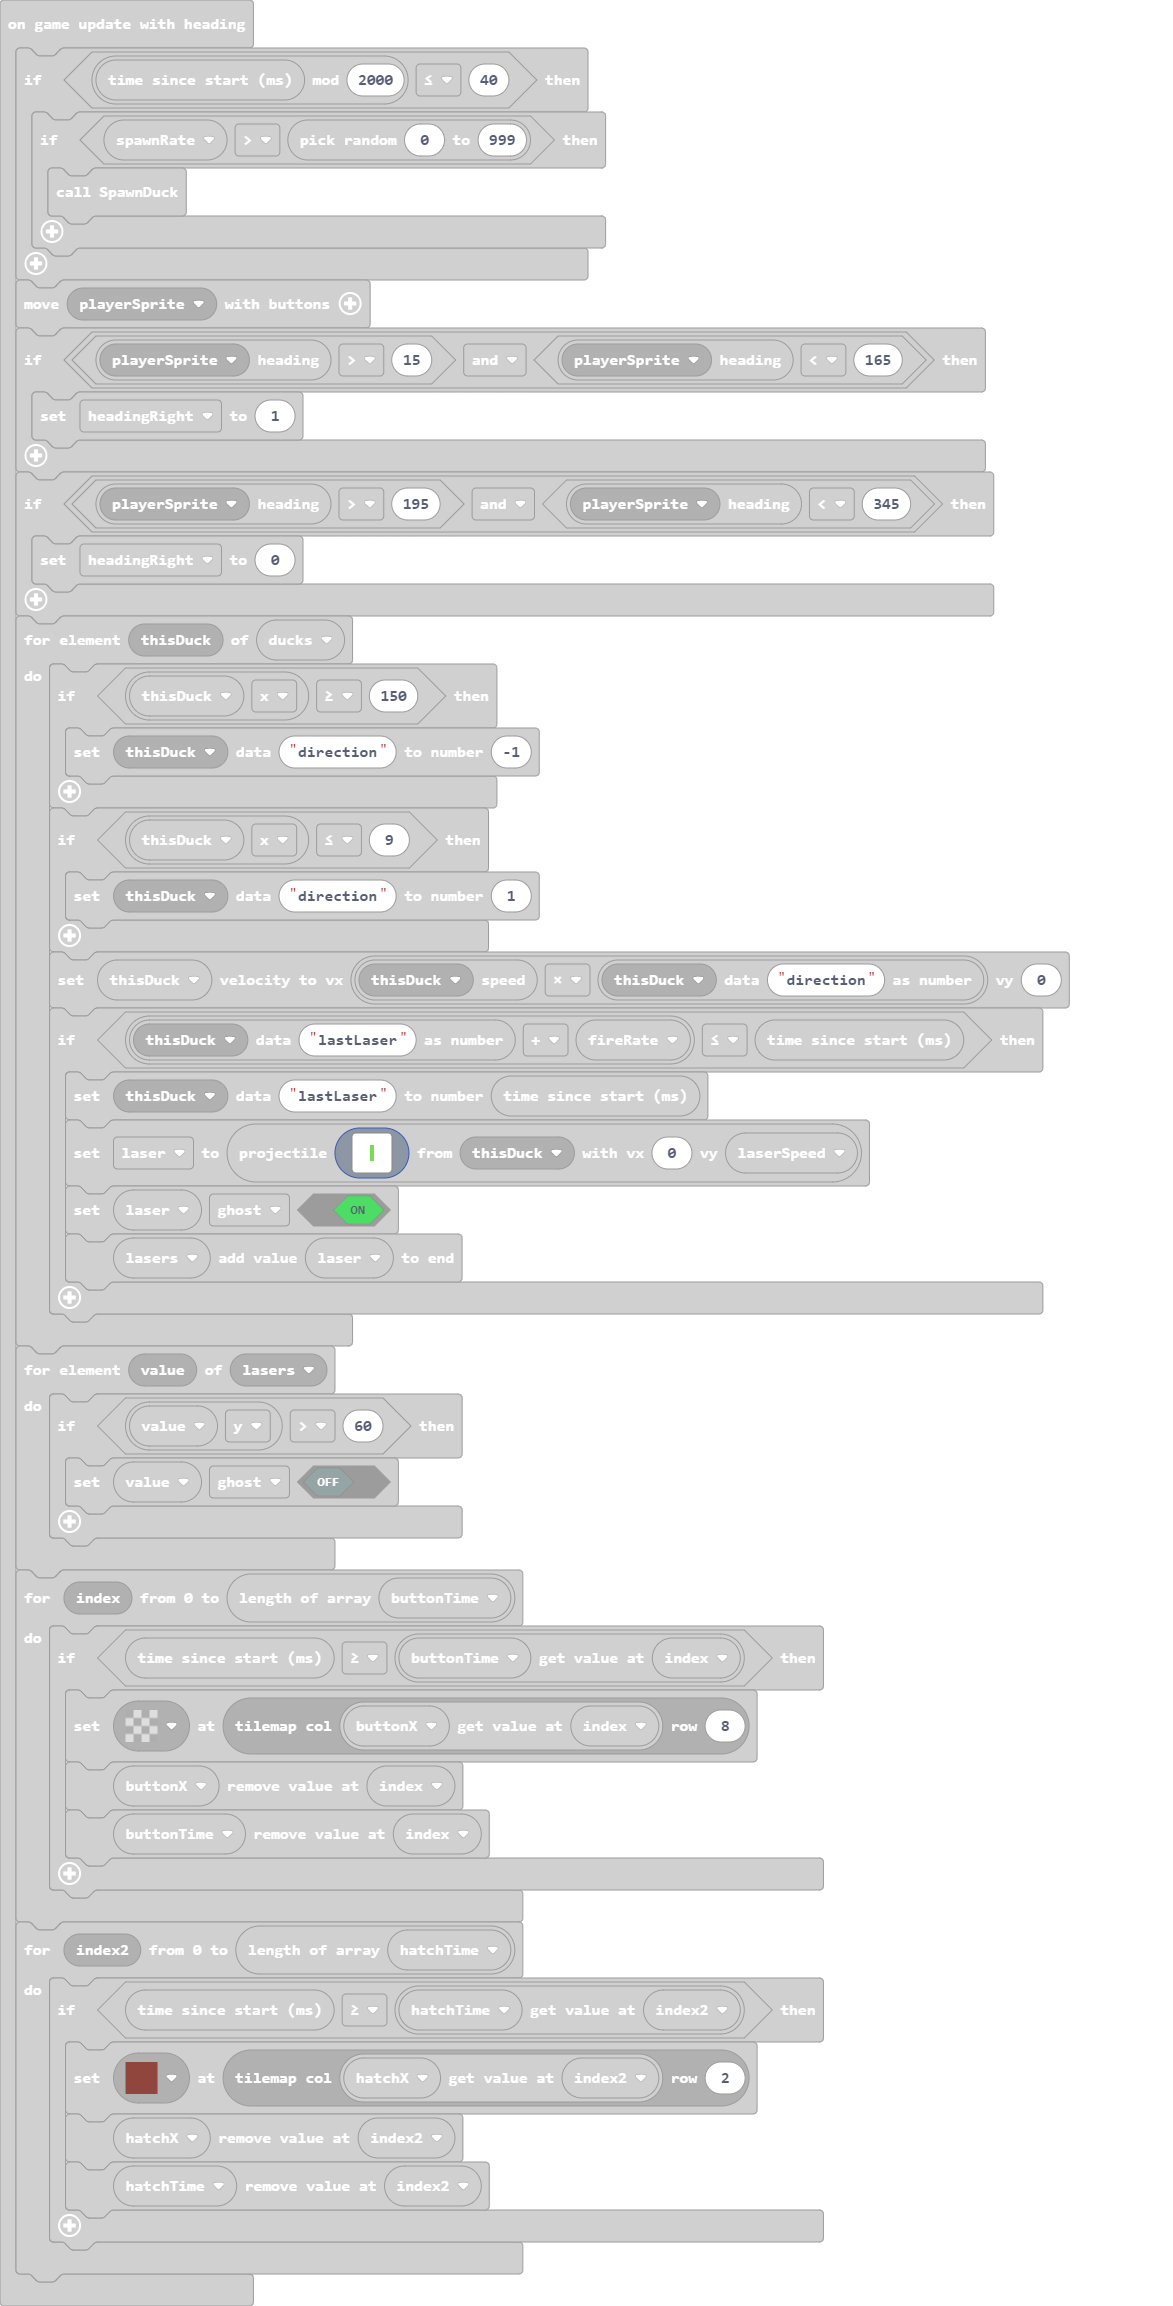
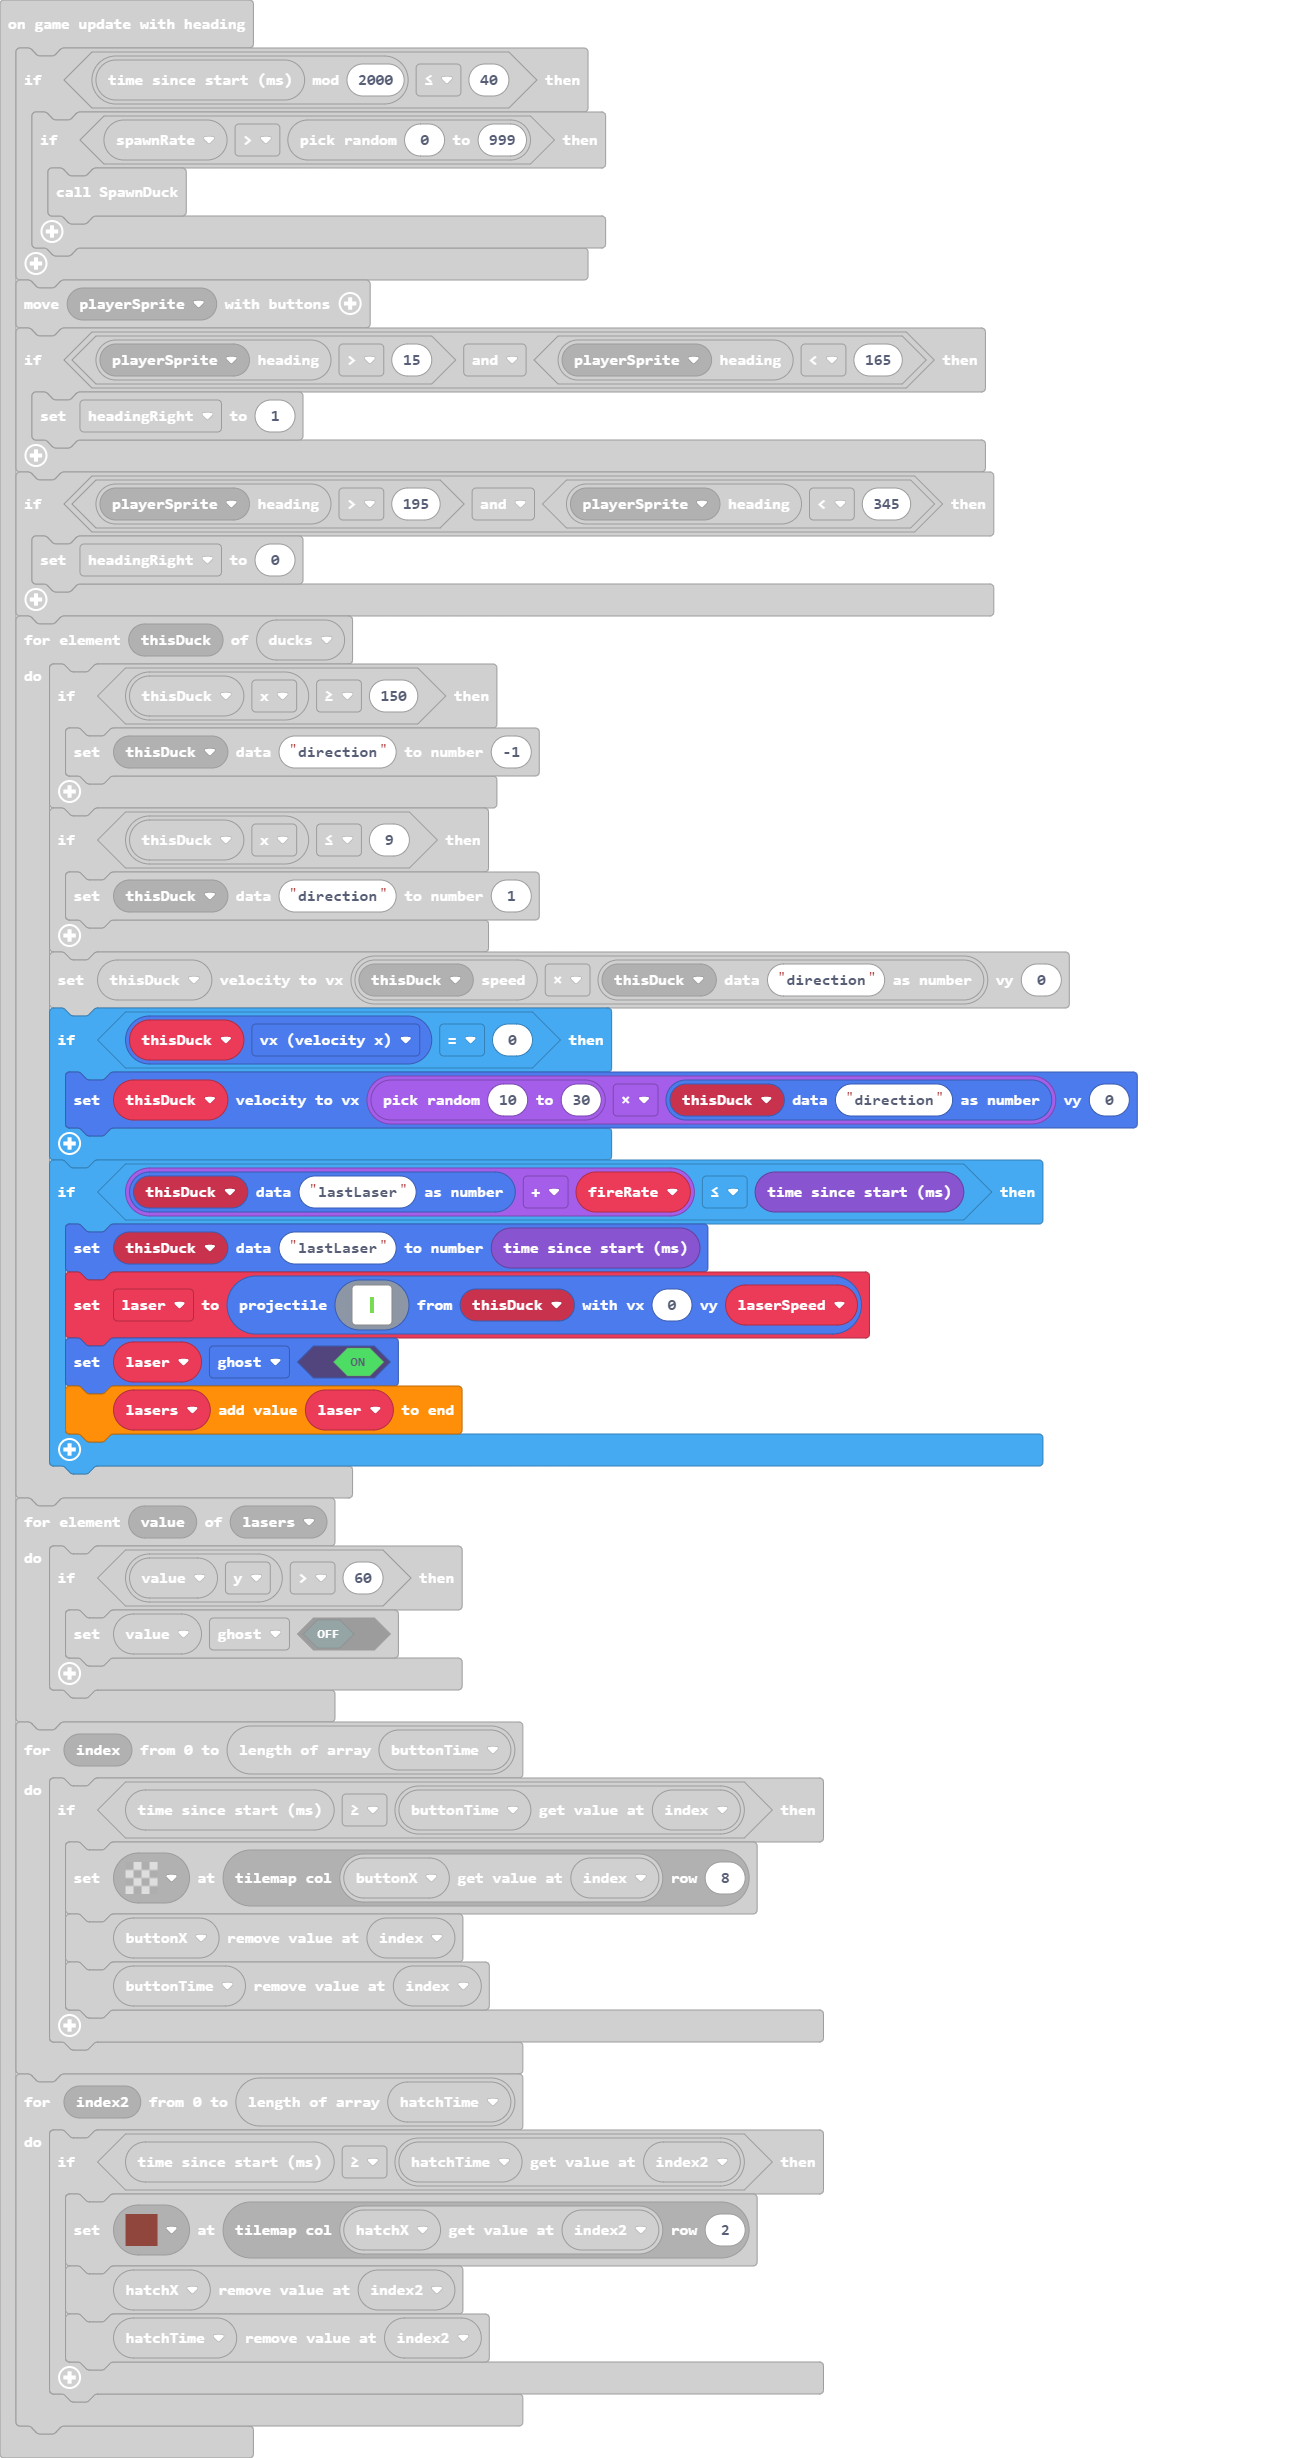
Ducks don't get stuck

diff --git a/main.ts b/main.ts
@@ -98,6 +98,9 @@ game.onGameUpdateWithHeading(function () {
             sprites.setDataNumber(thisDuck, "direction", 1)
         }
         thisDuck.setVelocity(sprites.speed(thisDuck) * sprites.readDataNumber(thisDuck, "direction"), 0)
+        if (thisDuck.vx == 0) {
+            thisDuck.setVelocity(randint(10, 30) * sprites.readDataNumber(thisDuck, "direction"), 0)
+        }
         if (sprites.readDataNumber(thisDuck, "lastLaser") + fireRate <= game.runtime()) {
             sprites.setDataNumber(thisDuck, "lastLaser", game.runtime())
             laser = sprites.createProjectileFromSprite(img`
